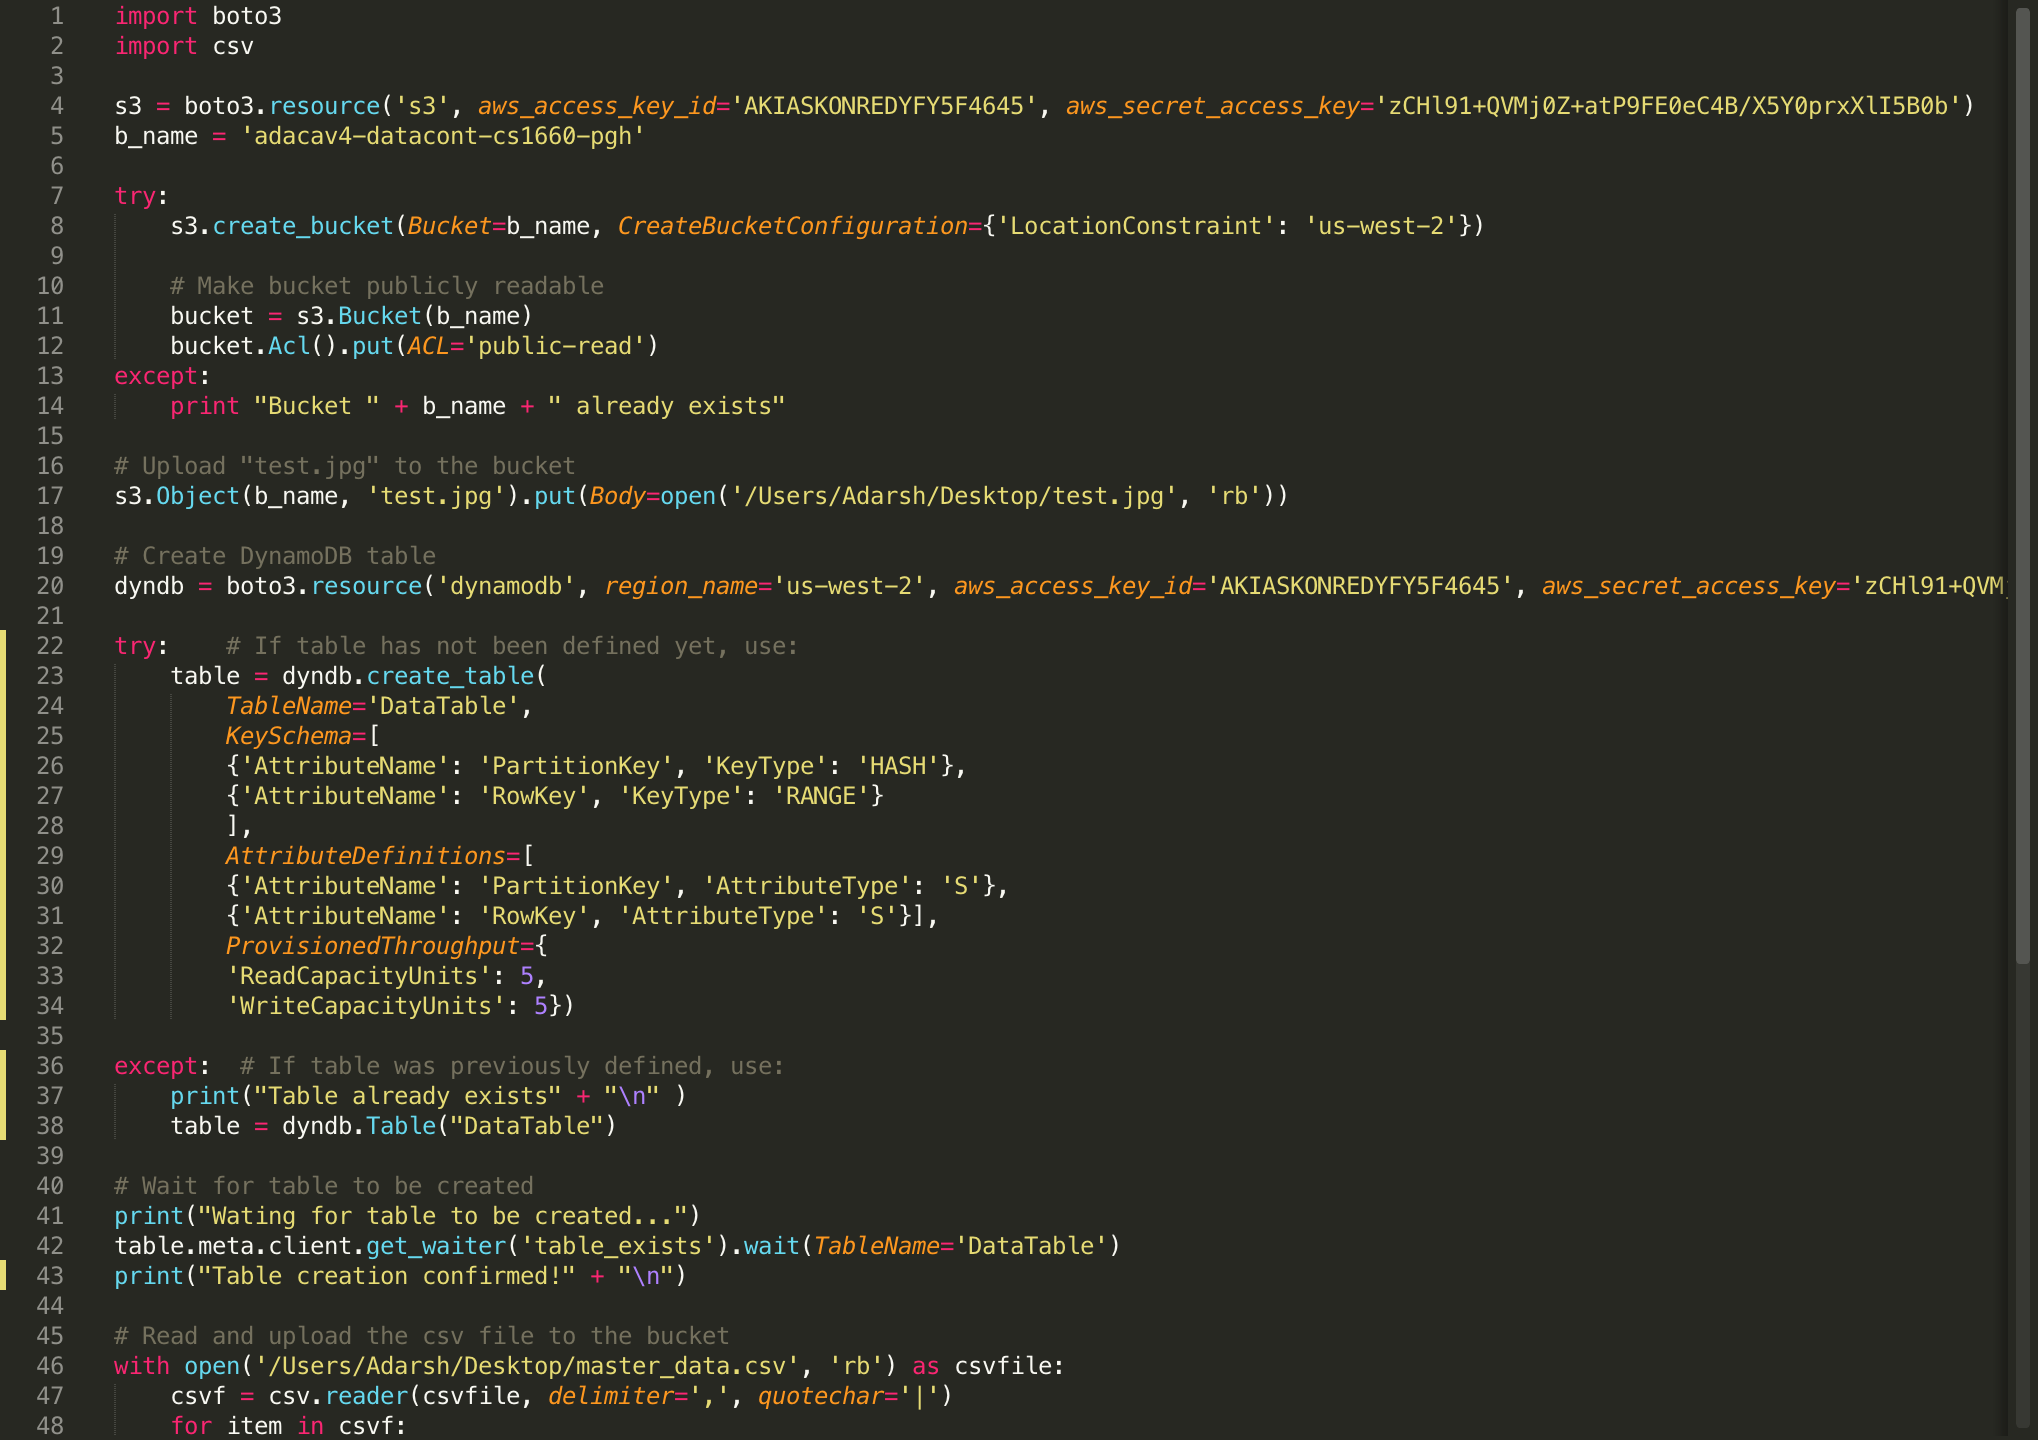
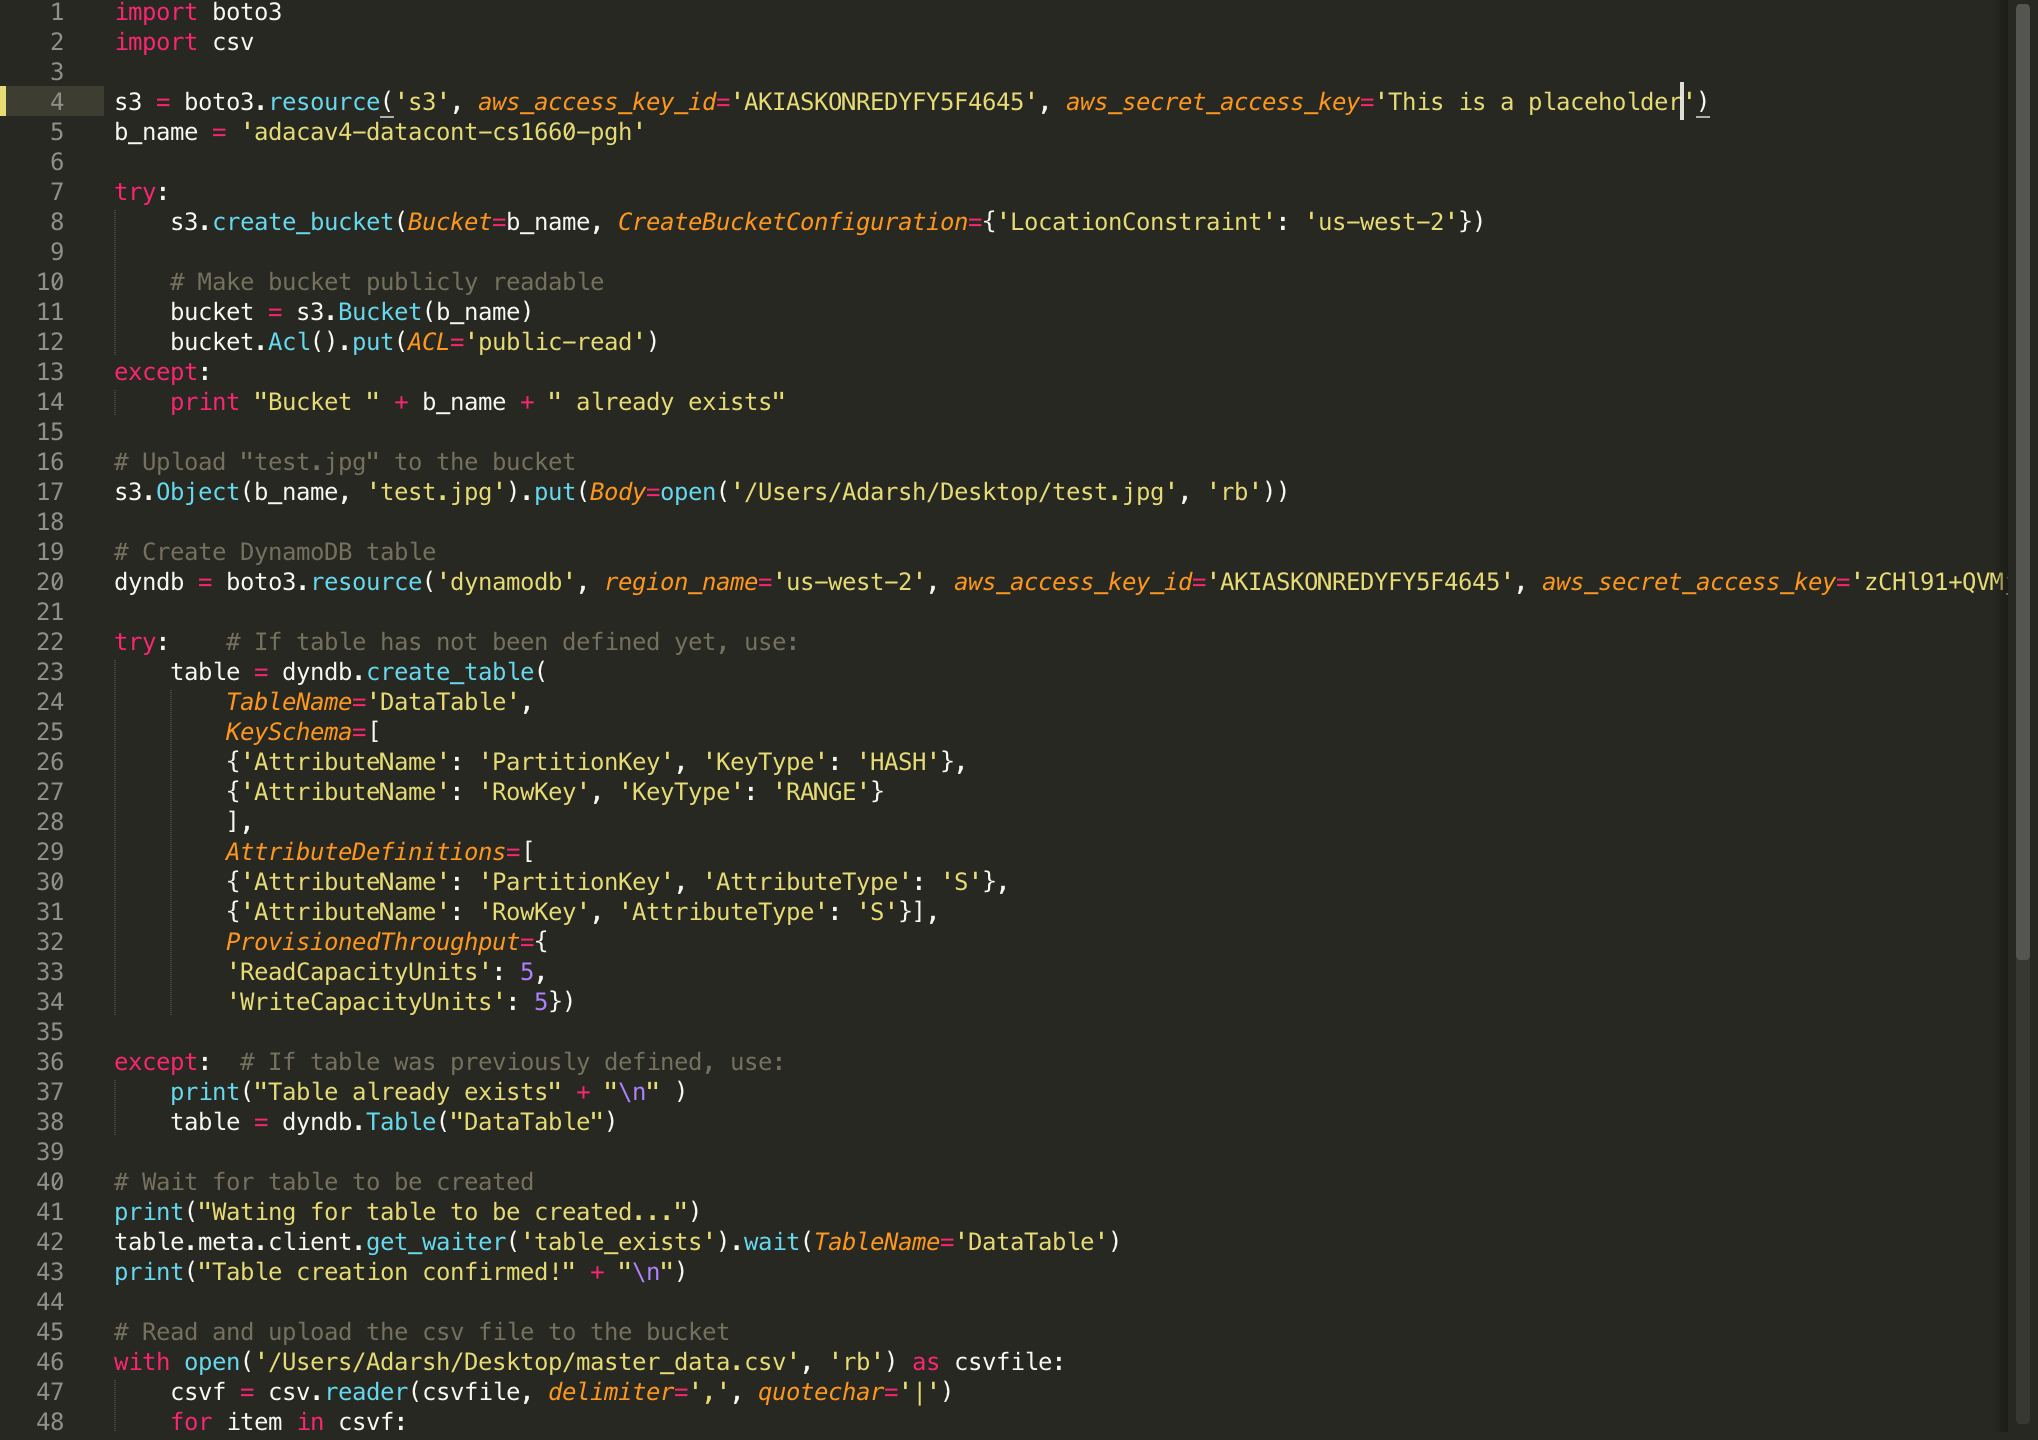
fix secret key exposure/remove secret key

diff --git a/hw2.py b/hw2.py
@@ -1,7 +1,7 @@
 import boto3
 import csv
 
-s3 = boto3.resource('s3', aws_access_key_id='AKIASKONREDYFY5F4645', aws_secret_access_key='zCHl91+QVMj0Z+atP9FE0eC4B/X5Y0prxXlI5B0b')
+s3 = boto3.resource('s3', aws_access_key_id='AKIASKONREDYFY5F4645', aws_secret_access_key='This is a placeholder')
 b_name = 'adacav4-datacont-cs1660-pgh'
 
 try:
